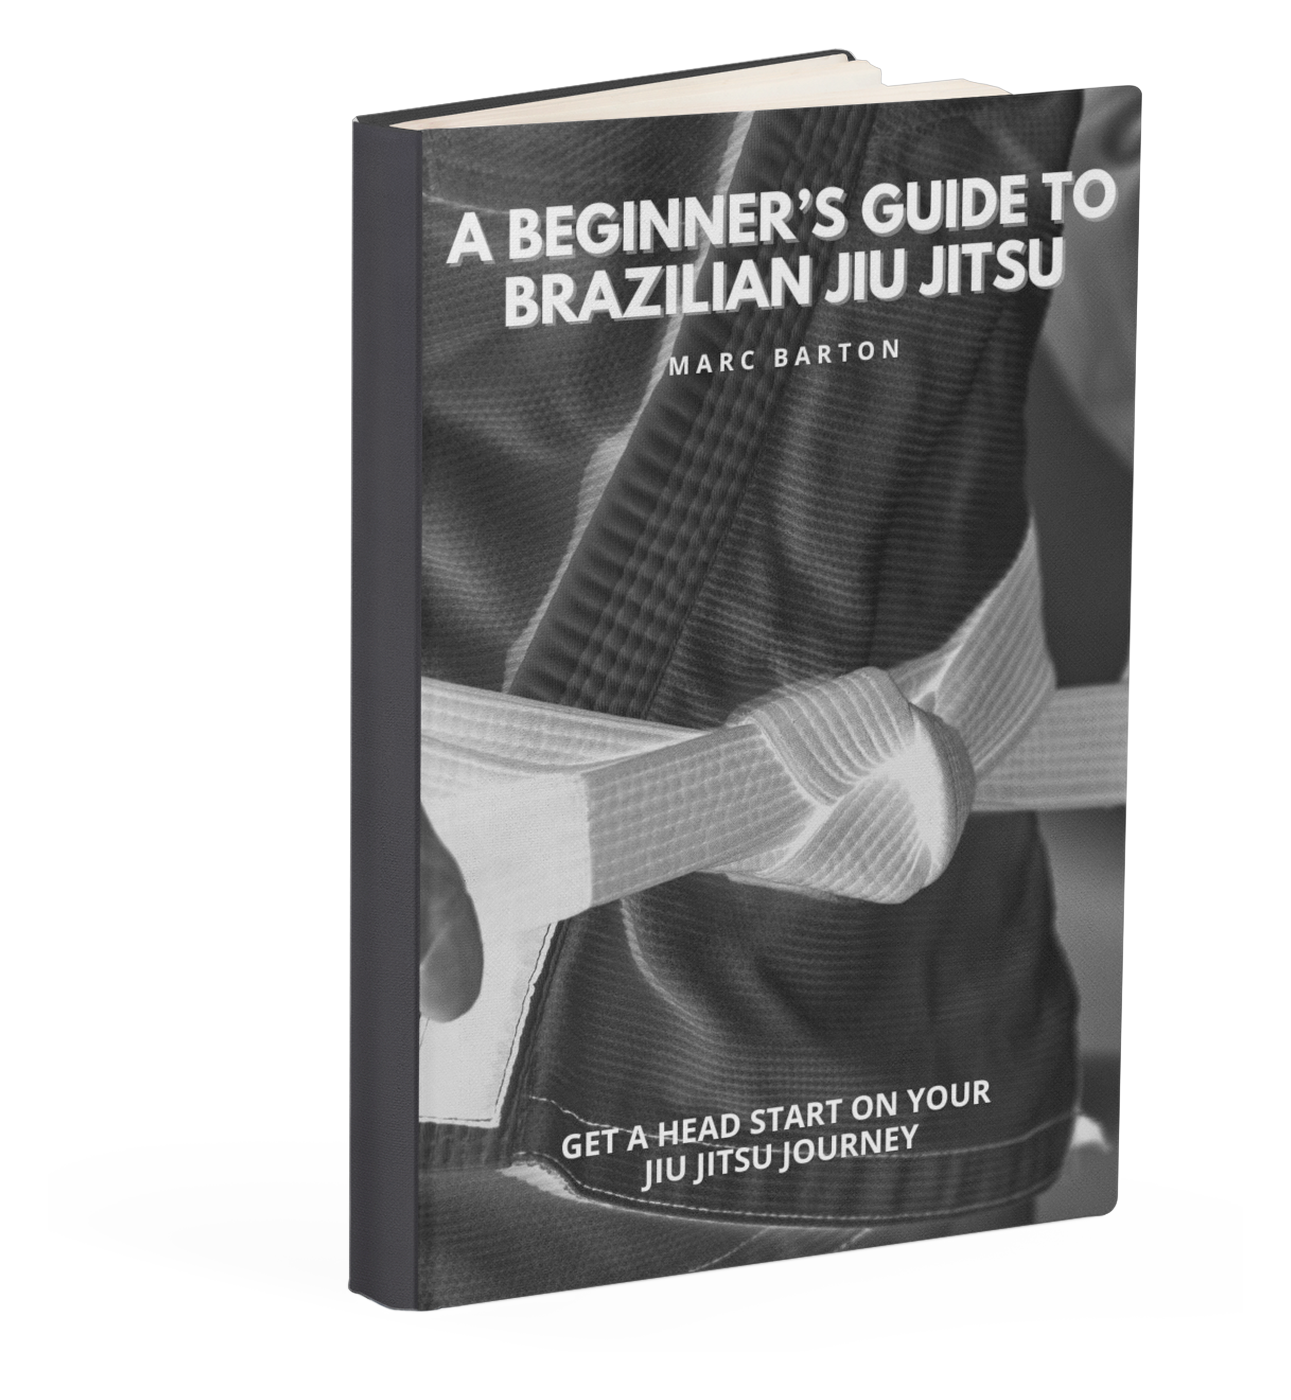
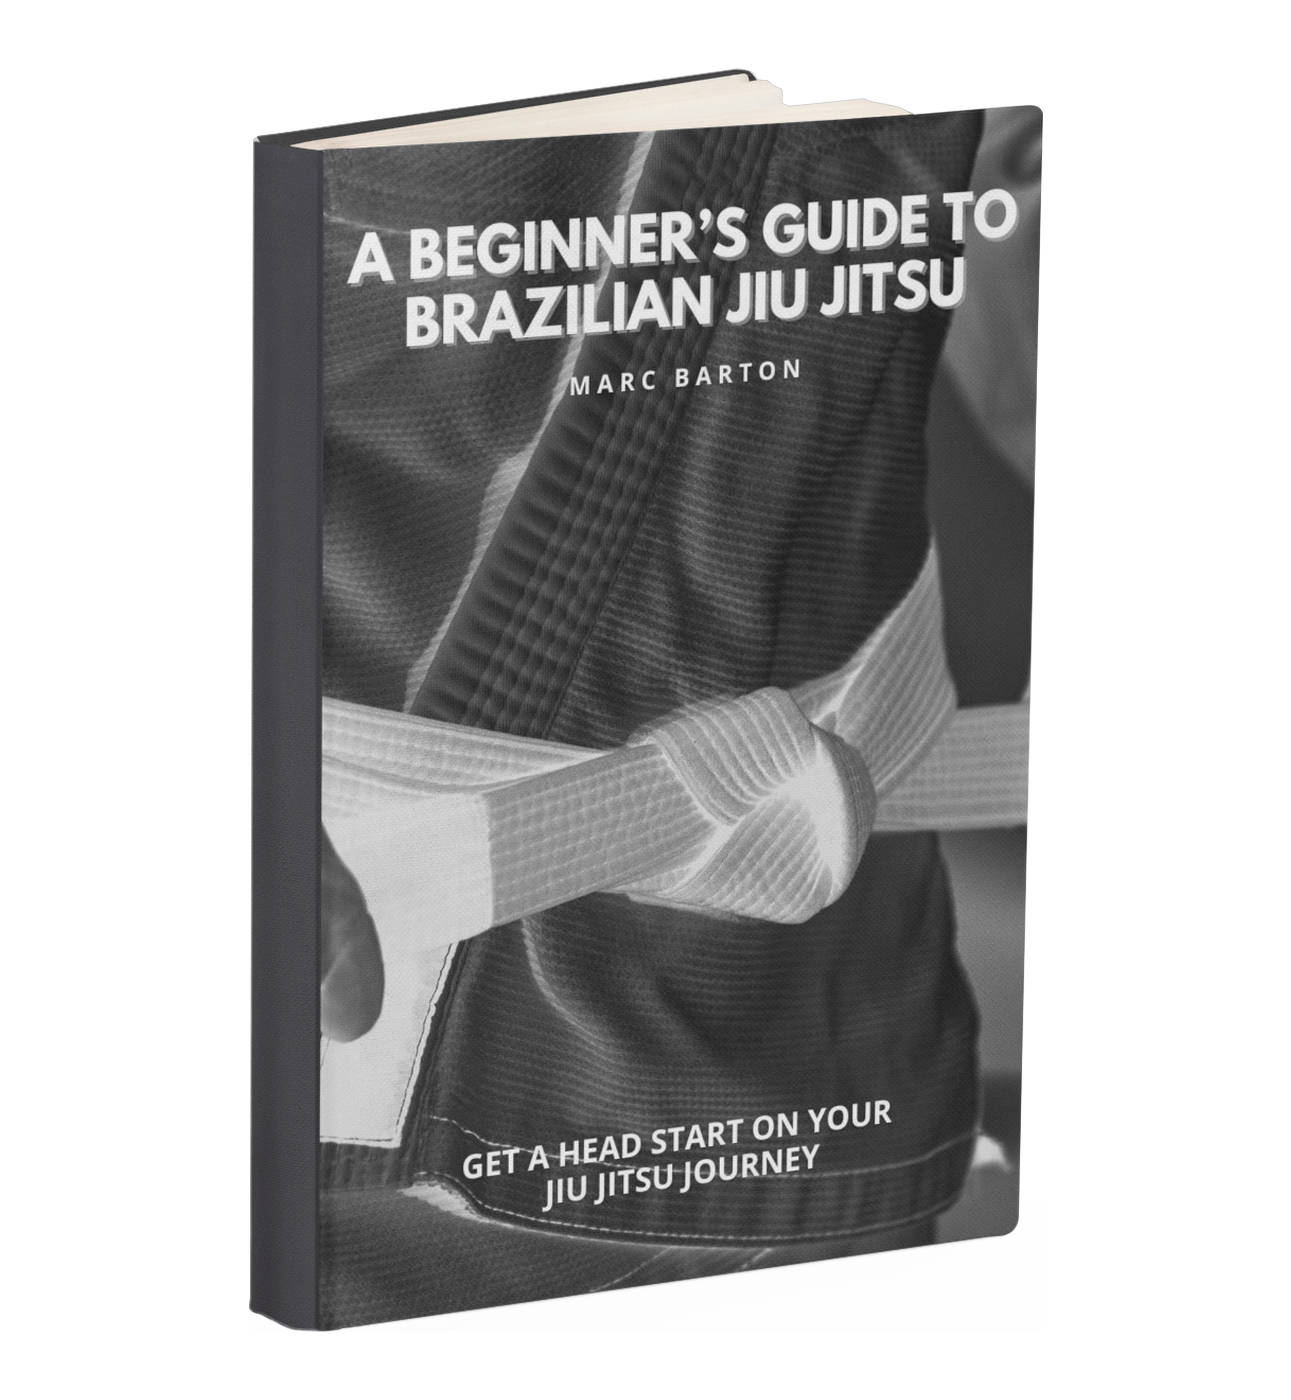
Center free-guide book covers on mobile
Recenter Beginner’s Guide and Suck Less cover artwork in their canvases and tighten mobile cover alignment so the books sit visually centered.

diff --git a/components/jjb-free-guides/free-guide.module.css b/components/jjb-free-guides/free-guide.module.css
@@ -162,6 +162,7 @@
   object-fit: contain;
   object-position: center;
   display: block;
+  margin-inline: auto;
   filter: drop-shadow(0 22px 48px rgba(13, 14, 16, 0.28));
 }
 
@@ -202,6 +203,8 @@
 
   .heroCover {
     grid-area: cover;
+    width: 100%;
+    justify-content: center;
   }
 
   .heroCopy {
@@ -209,9 +212,15 @@
     max-width: none;
   }
 
+  .coverStack {
+    width: 100%;
+    align-items: center;
+  }
+
   .coverImg {
     width: min(78vw, 19rem);
     max-height: 48svh;
+    margin-inline: auto;
   }
 
   .title {
